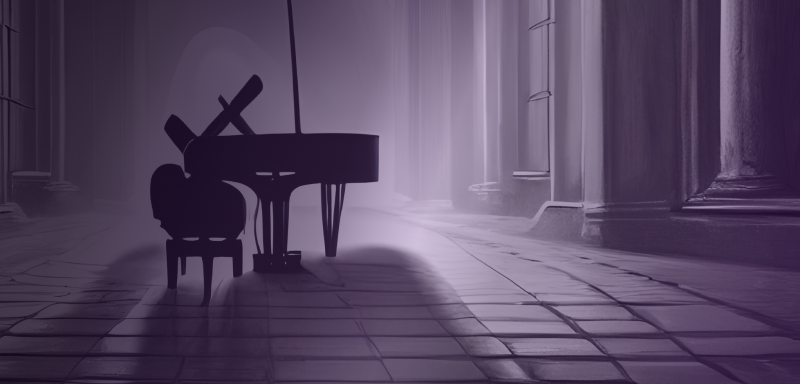
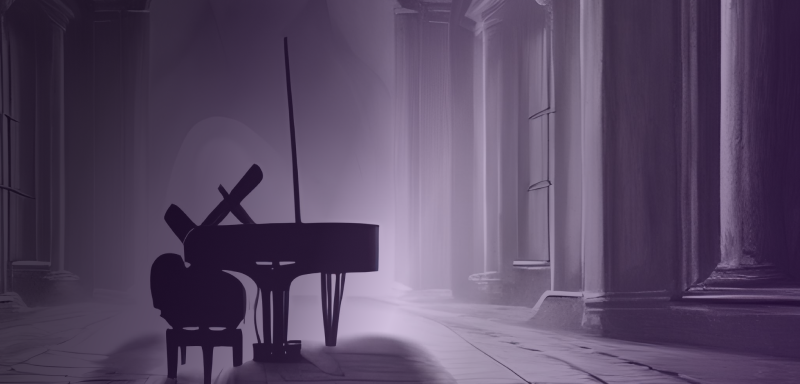
parallax

diff --git a/components/music/playlist.tsx b/components/music/playlist.tsx
@@ -1,26 +1,36 @@
 import React from "react";
 import Player from "./player";
+import { ParallaxBanner, ParallaxBannerLayer } from "react-scroll-parallax";
 
 export default function Playlist({ props }: any) {
   return (
     <div
       className={
-        "w-5/6 h-60 flex flex-col my-5 items-center justify-center bg-no-repeat bg-cover bg-top"
+        "relative w-5/6 h-56 flex flex-col my-5 items-center justify-center duration-500 ease-in-out shadow-md hover:shadow-xl hover:scale-[101%]"
       }
-      style={{ backgroundImage: `url("${props.image}")` }}
     >
-      <div className="flex flex-col w-full justify-center md:justify-start px-20">
-        <h2 className="text-base md:text-xl uppercase tracking-[0.4em] lg:text-3xl drop-shadow-lg text-white text-center md:text-start">
-          {props.title}
-        </h2>
-        <p className="text-xs md:text-sm lg:text-base text-white font-normal font-elianto text-center md:text-start my-1 tracking-[0.1em]">
-          {props.subtitle}
-        </p>
-      </div>
-      <div className="w-full h-[1px] bg-white" />
-      <div className="flex flex-col w-full justify-center md:justify-start px-20">
-        <Player tracks={props.tracks} />
-      </div>
+      <ParallaxBanner className="aspect-[2/1]">
+        <ParallaxBannerLayer
+          image={props.image}
+          speed={-10}
+        ></ParallaxBannerLayer>
+        <ParallaxBannerLayer>
+          <div className="h-full flex flex-col my-5 items-center justify-center">
+            <div className="flex flex-col w-full justify-center md:justify-start px-20">
+              <h2 className="text-lg md:text-xl lg:text-2xl uppercase tracking-[0.4em] drop-shadow-lg text-white text-center md:text-start">
+                {props.title}
+              </h2>
+              <p className="text-xs md:text-sm lg:text-base text-white font-normal font-montserrat text-center md:text-start my-1 tracking-[0.1em]">
+                {props.subtitle}
+              </p>
+            </div>
+            <div className="w-full h-[1px] bg-white" />
+            <div className="flex flex-col w-full justify-center md:justify-start px-20">
+              <Player tracks={props.tracks} />
+            </div>
+          </div>
+        </ParallaxBannerLayer>
+      </ParallaxBanner>
     </div>
   );
 }

diff --git a/components/music/player.jsx b/components/music/player.jsx
@@ -65,7 +65,7 @@ export default function Player({ tracks }) {
 
   return (
     <div className="w-full">
-      <h3 className="text-base md:text-lg lg:text-xl tracking-[0.3em] uppercase drop-shadow-lg text-white text-center md:text-start mt-2">
+      <h3 className="text-sm md:text-base lg:text-lg tracking-[0.3em] uppercase drop-shadow-lg text-white text-center md:text-start mt-2 mb-1">
         {title}
       </h3>
       <div className={"flex flex-row justify-between items-center"}>
@@ -76,7 +76,7 @@ export default function Player({ tracks }) {
             changeTrack(-1);
           }}
         >
-          <FaBackward className="text-white text-3xl" />
+          <FaBackward className="text-white text-2xl hover:drop-shadow-md hover:scale-[110%] duration-500 " />
         </button>
         {isPlaying ? (
           <button
@@ -85,7 +85,7 @@ export default function Player({ tracks }) {
             aria-label="Pause"
             className="mx-4"
           >
-            <FaPause className="text-white text-2xl" />
+            <FaPause className="text-white text-xl hover:drop-shadow-md hover:scale-[110%] duration-500 " />
           </button>
         ) : (
           <button
@@ -94,7 +94,7 @@ export default function Player({ tracks }) {
             aria-label="Play"
             className="mx-4"
           >
-            <FaPlay className="text-white text-2xl" />
+            <FaPlay className="text-white text-xl hover:drop-shadow-md hover:scale-[110%] duration-500 " />
           </button>
         )}
         <Slider
@@ -108,7 +108,8 @@ export default function Player({ tracks }) {
           sx={{
             color: "rgba(183,170,196,0.7)",
             width: "full",
-            height: 40,
+            height: 25,
+            paddingY: 0,
             "& .MuiSlider-thumb": {
               width: 0,
               height: 0,
@@ -132,7 +133,7 @@ export default function Player({ tracks }) {
           }}
         />
         <button type="button" aria-label="Next" onClick={() => changeTrack(1)}>
-          <FaForward className="text-white text-3xl ml-5" />
+          <FaForward className="text-white text-2xl ml-5 hover:drop-shadow-md hover:scale-[110%] duration-500 " />
         </button>
       </div>
     </div>

diff --git a/components/music/index.tsx b/components/music/index.tsx
@@ -1,5 +1,4 @@
 import React from "react";
-//import { Carousel } from "3d-react-carousal";
 import Playlist from "./playlist";
 
 import { spotlight } from "../../data/tracks";
@@ -10,15 +9,15 @@ export default function Music() {
       <h2 className="text-xl md:text-3xl lg:text-5xl drop-shadow-lg text-white text-center uppercase tracking-[0.3em]">
         Music
       </h2>
-      <p className="text-base md:text-lg lg:text-xl drop-shadow-lg text-mauve mt-6 font-normal text-center">
+      <p className="text-base md:text-lg lg:text-xl drop-shadow-lg text-mauve my-4 font-normal text-center">
         Browse through my library of original compositions and arrangements,
         spanning various styles including Classicism, Romanticism,
         Impressionism, and Modernism.
       </p>
-      <div className="w-full flex items-center justify-center">
-        {spotlight.map((track, index) => {
-          return <Playlist key={index} props={track} />;
-        })}
+      <div className="w-full flex flex-col items-center justify-center">
+        {spotlight.map((playlist, index) => (
+          <Playlist key={index} props={playlist} />
+        ))}
       </div>
     </main>
   );

diff --git a/data/tracks.ts b/data/tracks.ts
@@ -14,4 +14,42 @@ export const spotlight = [
     ],
     image: "/assets/img/Soundtracks.png",
   },
+  {
+    title: "Ensemble",
+    subtitle: "Dramatic orchestral and ensemble works",
+    tracks: [
+      {
+        title: "Piano Concerto - III",
+        src: "/assets/audio/ensemble/Concerto 3.mp3",
+      },
+      {
+        title: "Rebirth",
+        src: "/assets/audio/ensemble/RebirthPrelude.mp3",
+      },
+      {
+        title: "Ace of Spades",
+      },
+    ],
+    image: "/assets/img/Ensemble.png",
+  },
+  {
+    title: "Piano",
+    subtitle:
+      "Solo post-romantic and contemporary compositions and arrangements",
+    tracks: [
+      {
+        title: "Halcyon Days",
+        src: "/assets/audio/piano/HalcyonDays.mp3",
+      },
+      {
+        title: "Peridot",
+        src: "/assets/audio/piano/Peridot.mp3",
+      },
+      {
+        title: "Fugue on a Theme of Rachmaninoff",
+        src: "/assets/audio/piano/RachmaninoffFugue.mp3",
+      },
+    ],
+    image: "/assets/img/Piano.png",
+  },
 ];

diff --git a/tailwind.config.js b/tailwind.config.js
@@ -3,11 +3,19 @@ module.exports = {
   content: ["./{components,pages}/**/*.{html,js,jsx,ts,tsx}"],
   theme: {
     dropShadow: {
-      DEFAULT: "0 0 20px rgba(217,187,236,0.3)",
-      sm: "0 0 20px rgba(217,187,236,0.3)",
-      md: "0 0 20px rgba(217,187,236,0.4)",
-      lg: "0 0 30px rgba(217,187,236,0.5)",
-      xl: "0 0 40px rgba(217,187,236,0.67)",
+      DEFAULT: "0 0 20px rgba(217,187,236,1)",
+      sm: "0 0 5px rgba(217,187,236,1)",
+      md: "0 0 10px rgba(217,187,236,1)",
+      lg: "0 0 15px rgba(217,187,236,1)",
+      xl: "0 0 30px rgba(217,187,236,1)",
+      none: "none",
+    },
+    boxShadow: {
+      DEFAULT: "0 0 20px 5px rgba(0,0,0,0.7)",
+      sm: "0 0 20px 5px rgba(0,0,0,0.7)",
+      md: "0 0 20px 5px rgba(0,0,0,0.7)",
+      lg: "0 0 30px 7px rgba(0,0,0,0.8)",
+      xl: "0 0 40px 10px rgba(0,0,0,0.9)",
       none: "none",
     },
     extend: {

diff --git a/pages/_app.tsx b/pages/_app.tsx
@@ -1,6 +1,11 @@
 import "../styles/globals.css";
 import type { AppProps } from "next/app";
+import { ParallaxProvider } from "react-scroll-parallax";
 
 export default function App({ Component, pageProps }: AppProps) {
-  return <Component {...pageProps} />;
+  return (
+    <ParallaxProvider>
+      <Component {...pageProps} />
+    </ParallaxProvider>
+  );
 }

diff --git a/pages/_document.tsx b/pages/_document.tsx
@@ -1,0 +1,13 @@
+import { Html, Head, Main, NextScript } from "next/document";
+
+export default function Document() {
+  return (
+    <Html>
+      <Head></Head>
+      <body>
+        <Main />
+        <NextScript />
+      </body>
+    </Html>
+  );
+}
